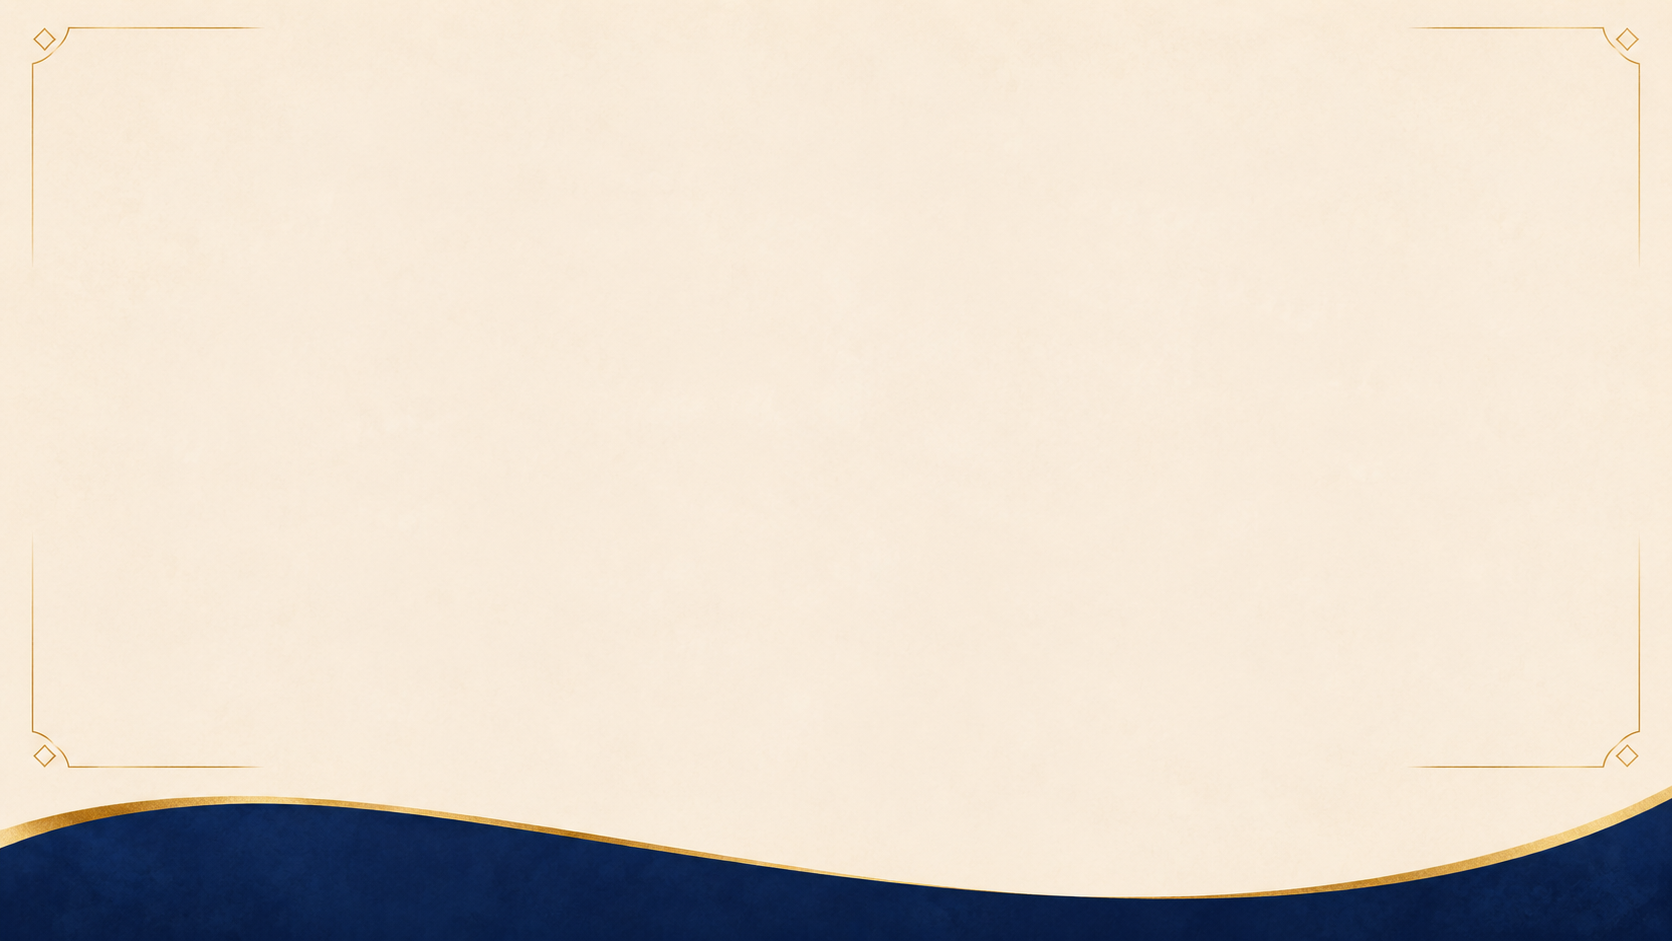
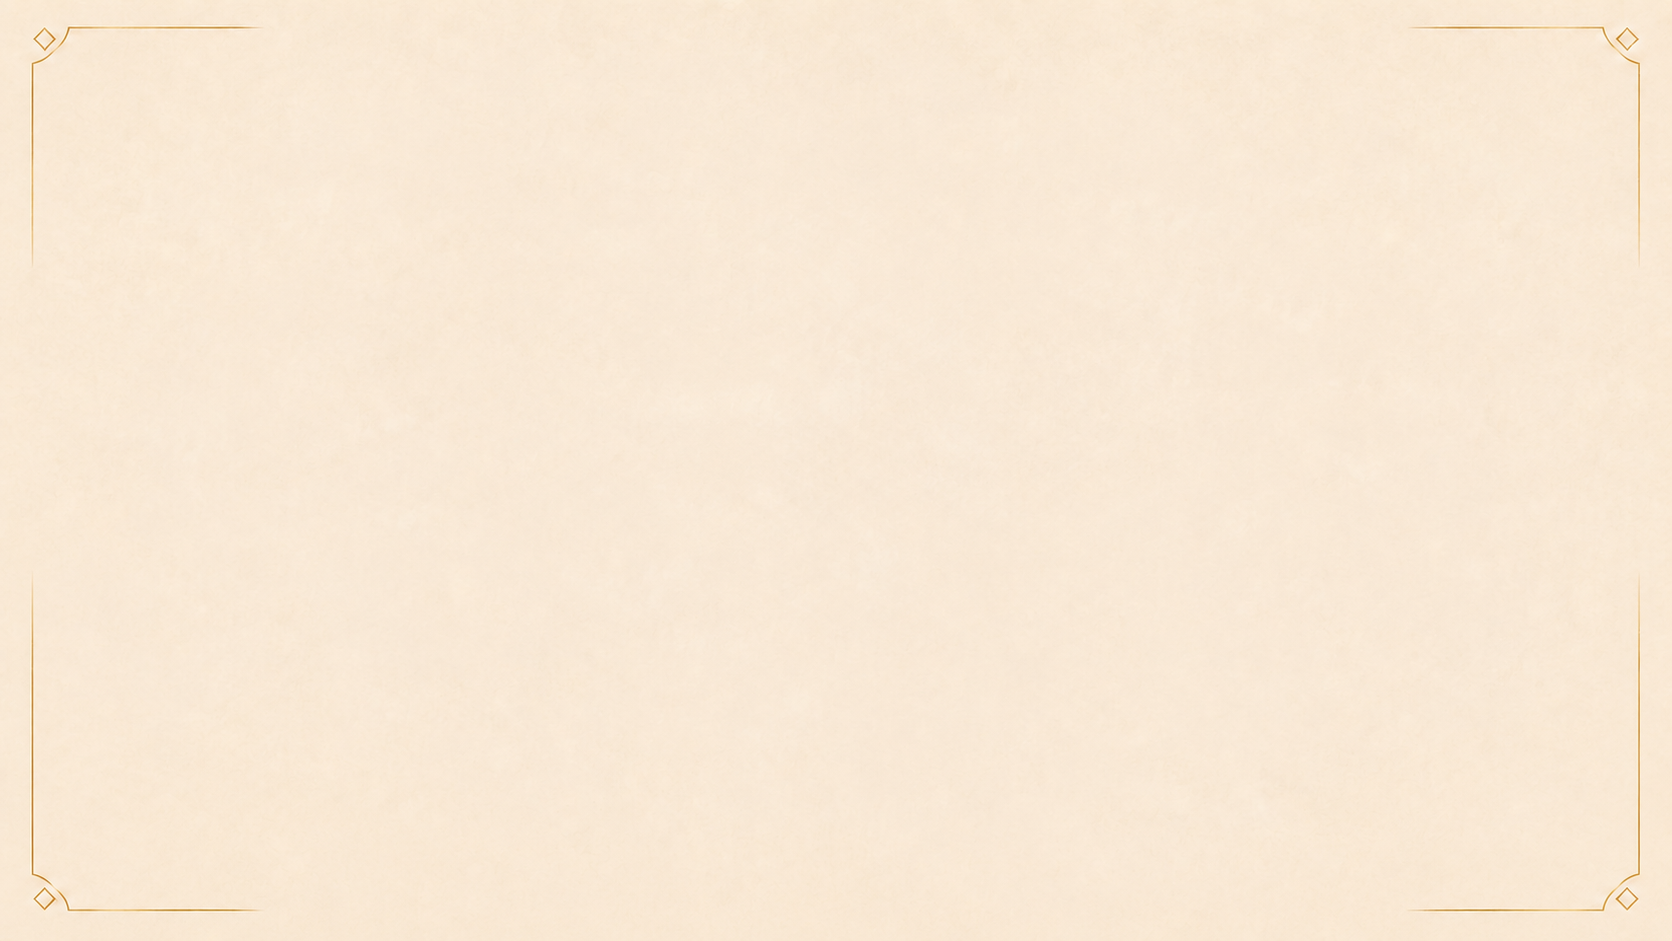
atualização da seção

Changed region(s): [[0.0, 0.8321, 1.0, 1.0], [0.9641, 0.7705, 0.9952, 0.8013], [0.0, 0.7705, 0.0311, 0.8013]]

diff --git a/MariaEmMeuLar/wwwroot/css/home.css b/MariaEmMeuLar/wwwroot/css/home.css
@@ -497,7 +497,282 @@
 }
 
 .juventude-heading .welcome-divider{
-    
+    justify-content: center;
+    margin-bottom: 18px;
+}
+
+.juventude-label {
+    margin: 0 0 18px;
+
+    color: #0b356d;
+    font-size: 62px;
+    line-height: 1.05;
+    font-weight: 900;
+    text-transform: capitalize;
+}
+
+.juventude-symbol {
+    color: #c9993a;
+    font-size: 24px;
+    font-weight: 800;
+    line-height: 1;
+}
+
+.juventude-heading p {
+    color: #293241;
+    font-size: 20px;
+    line-height: 1.6;
+}
+/* ===============================
+   GRID DOS CARDS
+================================ */
+
+.juventude-card-row {
+    display: grid;
+    grid-template-columns: repeat(6, 1fr);
+    gap: 32px;
+}
+
+.juventude-card {
+    grid-column: span 2;
+}
+
+.juventude-card:nth-child(4) {
+    grid-column: 2 / span 2;
+}
+
+.juventude-card:nth-child(5) {
+    grid-column: 4 / span 2;
+}
+
+/* ===============================
+   CARD BASE
+================================ */
+
+.juventude-card {
+    position: relative;
+    min-height: 300px;
+    border-radius: 28px;
+    overflow: hidden;
+    box-shadow: 0 16px 34px rgba(11, 53, 109, 0.16);
+    transition: 0.35s ease;
+}
+
+.juventude-card:hover {
+    transform: translateY(-8px);
+    box-shadow: 0 24px 48px rgba(11, 53, 109, 0.22);
+}
+
+.juventude-imagem {
+    position: absolute;
+    inset: 0;
+    z-index: 1;
+
+    display: flex;
+    align-items: center;
+    justify-content: center;
+}
+
+.juventude-imagem img {
+    width: 130%;
+    height: 100%;
+
+    object-fit: contain;
+    object-position: center;
+
+    display: block;
+    opacity: 0.88;
+
+    transition: 0.45s ease;
+}
+
+.juventude-card:hover .juventude-imagem img {
+    transform: scale(1.01);
+}
+
+.juventude-card:nth-child(1) {
+    background-color: #082c5c;
+}
+
+.juventude-card:nth-child(2) {
+    background-color: #1c242b;
+}
+
+.juventude-card:nth-child(3) {
+    background-color: #571870;
+}
+
+.juventude-card:nth-child(4) {
+    background-color: #941c1c;
+}
+
+.juventude-card:nth-child(5) {
+    background-color: #ffffff;
+}
+
+/* camada de cor */
+.juventude-card::after {
+    content: "";
+    position: absolute;
+    inset: 0;
+    z-index: 2;
+    background: rgba(5, 22, 45, 0.72);
+}
+
+/* conteúdo */
+.juventude-content {
+    position: relative;
+    z-index: 3;
+
+    min-height: 300px;
+
+    display: grid;
+    grid-template-columns: 120px minmax(0, 1fr);
+    align-items: center;
+    gap: 22px;
+
+    padding: 30px;
+
+    color: #ffffff;
+}
+
+.juventude-content > div {
+    min-width: 0;
+}
+
+.juventude-photo {
+    width: 118px;
+    height: 118px;
+
+    object-fit: cover;
+    border-radius: 50%;
+
+    border: 4px solid rgba(255, 255, 255, 0.92);
+    background: #ffffff;
+
+    box-shadow: 0 10px 24px rgba(0, 0, 0, 0.22);
+}
+
+.juventude-content h3 {
+    margin-bottom: 14px;
+
+    color: #ffffff;
+    font-size: 28px;
+    line-height: 1.05;
+    font-weight: 900;
+}
+
+.juventude-content .welcome-divider {
+    justify-content: flex-start;
+    margin-bottom: 16px;
+}
+
+.juventude-content .welcome-divider span {
+    width: 55px;
+    background: #c9993a;
+}
+
+.juventude-content .welcome-divider i {
+    color: #c9993a;
+}
+
+.juventude-content p {
+    margin-bottom: 22px;
+
+    color: rgba(255, 255, 255, 0.94);
+    font-size: 15.5px;
+    line-height: 1.45;
+}
+
+.juventude-link {
+    display: inline-flex;
+    align-items: center;
+    justify-content: center;
+    gap: 10px;
+
+    min-width: 170px;
+    height: 44px;
+
+    padding: 0 20px;
+
+    border: 2px solid #c9993a;
+    border-radius: 28px;
+
+    color: #f2b642;
+    font-size: 15px;
+    font-weight: 800;
+    text-decoration: none;
+
+    transition: 0.3s ease;
+}
+
+.juventude-link:hover {
+    background: #c9993a;
+    color: #0b356d;
+    transform: translateY(-2px);
+}
+.juventude-link i {
+    font-size: 14px;
+}
+
+/* ===============================
+   CORES INDIVIDUAIS DOS CARDS
+================================ */
+
+/* Maria em Meu Lar */
+.juventude-card:nth-child(1)::after {
+    background: linear-gradient(
+            90deg,
+            rgba(8, 44, 92, 0.65),
+            rgba(8, 44, 92, 0.45)
+    );
+}
+
+.juventude-card:nth-child(2)::after {
+    background: linear-gradient(
+            90deg,
+            rgba(28, 36, 43, 0.65),
+            rgba(28, 36, 43, 0.45)
+    );
+}
+
+.juventude-card:nth-child(3)::after {
+    background: linear-gradient(
+            90deg,
+            rgba(87, 24, 112, 0.65),
+            rgba(87, 24, 112, 0.45)
+    );
+}
+
+.juventude-card:nth-child(4)::after {
+    background: linear-gradient(
+            90deg,
+            rgba(148, 28, 28, 0.65),
+            rgba(148, 28, 28, 0.45)
+    );
+}
+
+.juventude-card:nth-child(5)::after {
+    background: linear-gradient(
+            90deg,
+            rgba(255, 255, 255, 0.70),
+            rgba(255, 255, 255, 0.45)
+    );
+}
+
+.juventude-card:nth-child(5) .juventude-content h3,
+.juventude-card:nth-child(5) .juventude-content p {
+    color: #0b356d;
+}
+
+.juventude-card:nth-child(5) .juventude-link {
+    color: #0b356d;
+    border-color: #c9993a;
+}
+
+.juventude-card:nth-child(5) .juventude-link:hover {
+    background: #0b356d;
+    color: #ffffff;
 }
 
 